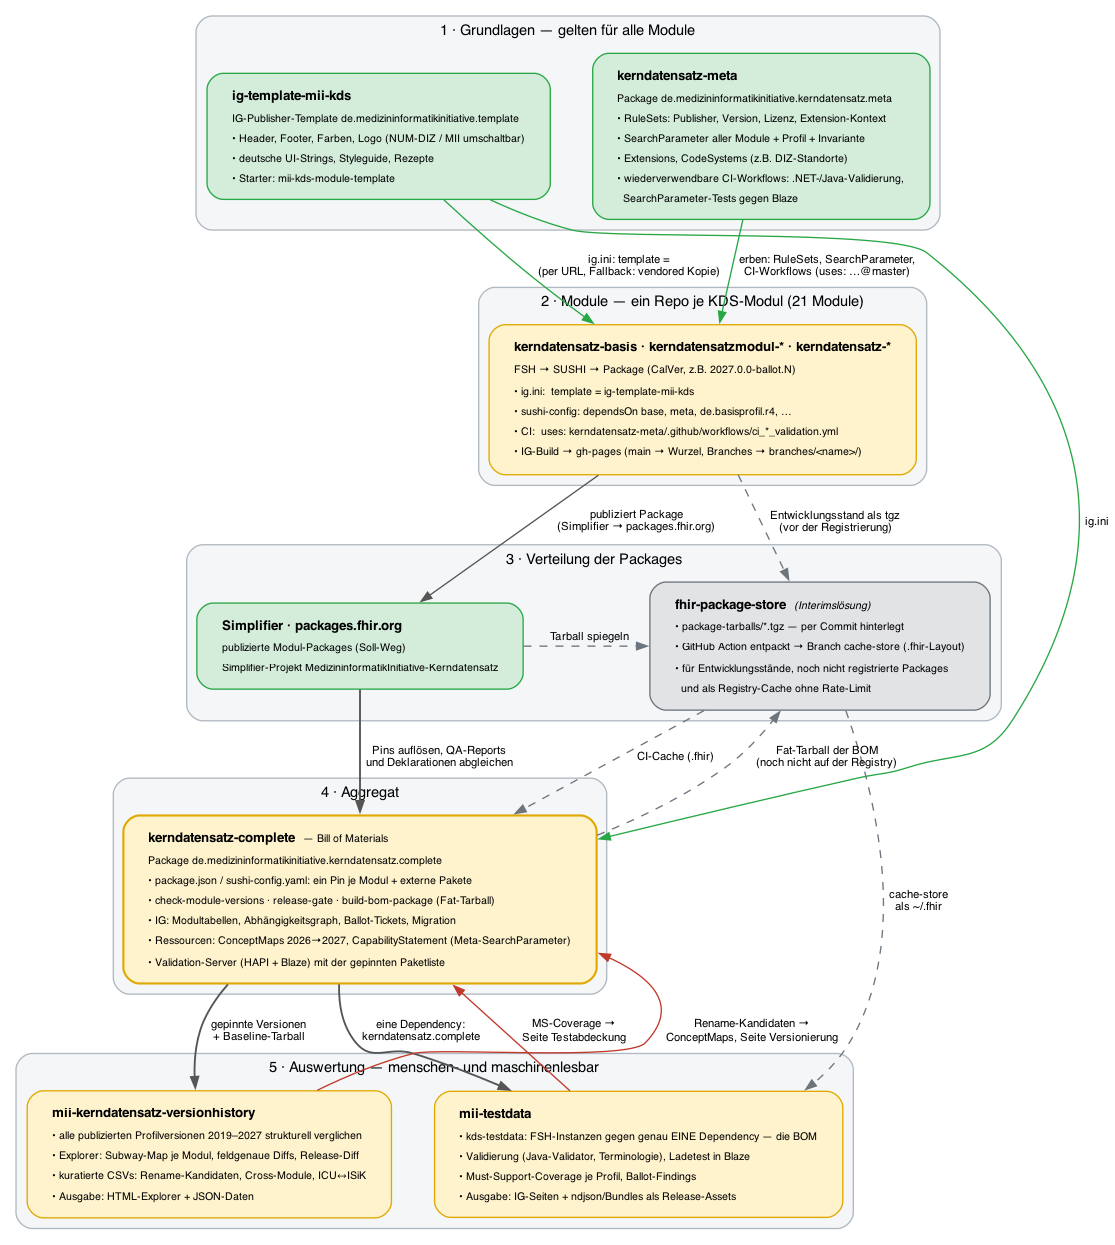
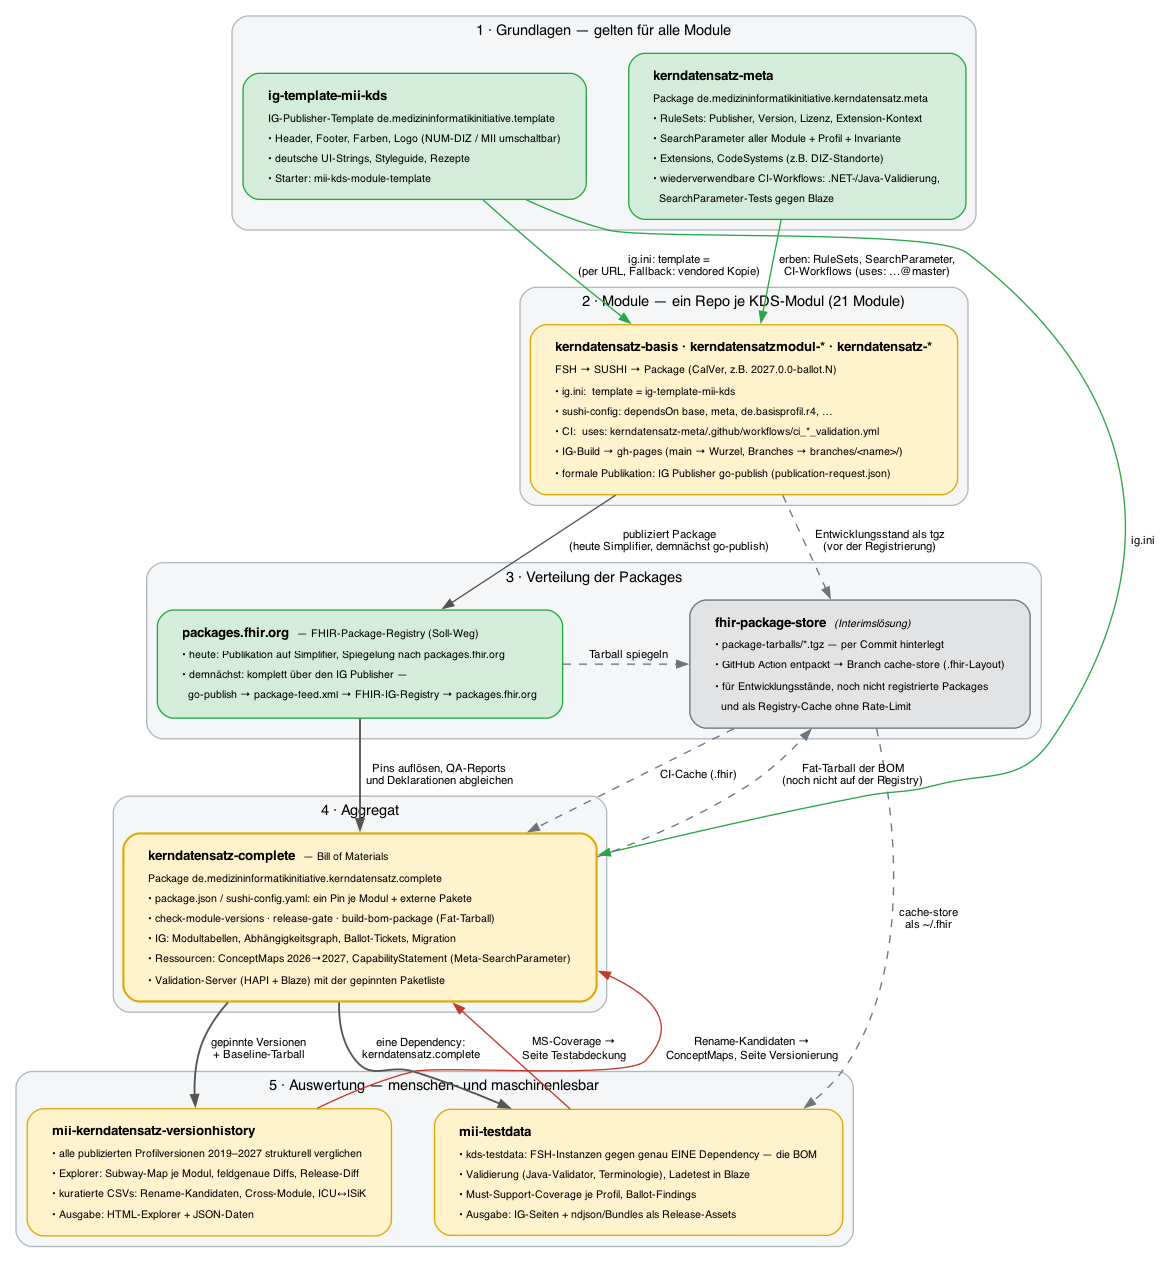
Entwicklungsstack: Publikation heute Simplifier, demnaechst komplett IG Publisher
Seite und Diagramm unterscheiden jetzt den heutigen Registry-Pfad (Package auf
Simplifier, Spiegelung nach packages.fhir.org) vom Zielweg ueber den IG Publisher
(go-publish mit publication-request.json, package-feed.xml, FHIR-IG-Registry).
Der publish-simplifier-Schritt ist als Uebergang beschrieben.

Beads: mii-kds-complete-t1u

Claude-Session: https://claude.ai/code/session_01Y83qjEzu1KHu5HzX6M5T6Z

diff --git a/input/pagecontent/entwicklungsstack.md b/input/pagecontent/entwicklungsstack.md
@@ -9,7 +9,7 @@ wo die Ergebnisse menschen- und maschinenlesbar ankommen.
 <img src="dev-stack.png" alt="Entwicklungsstack des MII Kerndatensatzes: Meta und IG-Template, Modul-Repositories, Verteilung über Registry und fhir-package-store, die Complete-BOM und die Auswertungen Testdaten und Version-History" style="max-width:100%"/>
 
 <small>Generiert aus <code>dev-stack.dot</code> via Graphviz. Grün = stabile
-Grundlage bzw. Soll-Weg, gelb = Ballot-Linie 2027, grau = Interimslösung. Graue
+Grundlage bzw. Soll-Weg (Registry), gelb = Ballot-Linie 2027, grau = Interimslösung. Graue
 gestrichelte Kanten = Interims-Pfade über den Package-Store, rote Kanten = Rückfluss
 der Auswertungen in diese BOM.</small>
 
@@ -66,7 +66,17 @@ Jedes der 21 Module lebt in einem eigenen Repository der
    Wurzel der GitHub Pages, jeder andere Branch unter `branches/<name>/` — während
    Ballotierung und Template-Migration tragen diese Branch-Builds den aktuellen Stand.
 4. **Release** als Git-Tag nach [CalVer](versionierung.html) (`2027.0.0-ballot.N`),
-   Package-Publikation auf Simplifier, GitHub-Release mit dem Tarball als Asset.
+   GitHub-Release mit dem Tarball als Asset. Die **formale Publikation** läuft über
+   den IG Publisher: `publication-request.json` beschreibt die Version, der
+   `go-publish`-Workflow baut sie reproduzierbar, validiert, legt die
+   Publikationsstruktur mit `package-list.json` und `package-feed.xml` auf
+   GitHub Pages ab und erzeugt den Patch für die FHIR-IG-Registry — jeder dieser
+   Schritte ist bewusst manuell freizugeben.
+5. **Package-Publikation**: heute noch auf **Simplifier** — der Workflow
+   `publish-simplifier` lädt exakt das Package des go-publish-Laufs hoch, damit
+   Registry und Publikation identisch sind. Demnächst entfällt dieser Schritt:
+   `packages.fhir.org` liest das Package direkt aus dem Feed der
+   IG-Publisher-Publikation.
 
 Welche Version je Modul gerade gilt, zeigt die [Gesamtübersicht](index.html#gesamtübersicht);
 wie weit die Module untereinander konsistent sind, der
@@ -74,11 +84,17 @@ wie weit die Module untereinander konsistent sind, der
 
 ### 3. Verteilung: Registry und fhir-package-store
 
-Der **Soll-Weg** ist die FHIR-Package-Registry: Ein Modul publiziert sein Package
-im Simplifier-Projekt
-[MedizininformatikInitiative-Kerndatensatz](https://simplifier.net/organization/koordinationsstellemii/~packages),
-von dort wird es nach `packages.fhir.org` gespiegelt, und jeder Konsument — Module,
-diese BOM, Standorte — löst es mit SUSHI oder Firely Terminal auf.
+Der **Soll-Weg** ist die FHIR-Package-Registry `packages.fhir.org`: Jeder
+Konsument — Module, diese BOM, Standorte — löst die Packages mit SUSHI oder Firely
+Terminal von dort auf. Wie ein Package dorthin kommt, ist gerade im Übergang:
+
+- **Heute** publiziert ein Modul sein Package im Simplifier-Projekt
+  [MedizininformatikInitiative-Kerndatensatz](https://simplifier.net/organization/koordinationsstellemii/~packages);
+  von dort wird es nach `packages.fhir.org` gespiegelt.
+- **Demnächst** läuft die Publikation komplett über den IG Publisher: Die
+  go-publish-Publikation auf GitHub Pages führt `package-feed.xml`, die
+  FHIR-IG-Registry kennt den Feed, und `packages.fhir.org` übernimmt das Package
+  daraus. Simplifier ist dann kein Publikationsschritt mehr.
 
 Daneben gibt es, **ausdrücklich als Interimslösung**, den
 [fhir-package-store](https://github.com/medizininformatik-initiative/fhir-package-store).
@@ -161,7 +177,7 @@ Jede Ebene des Stacks hat beide Ausgaben. Die Tabelle zeigt, wo was ankommt:
 |------------|--------------|---------------|
 | Modulübergreifende Vorgaben | [Meta-IG](https://medizininformatik-initiative.github.io/kerndatensatz-meta/), [Meta-Wiki](https://github.com/medizininformatik-initiative/kerndatensatz-meta/wiki) | Package `…kerndatensatz.meta`: RuleSets, SearchParameter, Extensions |
 | Darstellung der Guides | [Template-Demo](https://medizininformatik-initiative.github.io/ig-template-mii-kds/), Styleguide | Template-Package `de.medizininformatikinitiative.template` |
-| Ein Modul | Modul-IG auf GitHub Pages | Modul-Package auf Simplifier / `packages.fhir.org` |
+| Ein Modul | Modul-IG auf GitHub Pages (go-publish-Publikation) | Modul-Package auf `packages.fhir.org` (heute über Simplifier, demnächst aus dem Package-Feed der IG-Publikation) |
 | Der gesamte Kerndatensatz | dieser IG: [Gesamtübersicht](index.html#gesamtübersicht), Abhängigkeitsgraph, [Ballot](ballot.html) | `package.json` der BOM, Fat-Package, ImplementationGuide-Ressource |
 | Umstieg 2026 → 2027 | [Migration](migration.html), [Versionierung](versionierung.html) | ConceptMaps (`$translate`), Rename-CSVs der Version-History |
 | Suchanforderungen an Server | Meta-IG, [Artefakte](artifacts.html) | aggregiertes CapabilityStatement + SearchParameter |
@@ -172,6 +188,9 @@ Jede Ebene des Stacks hat beide Ausgaben. Die Tabelle zeigt, wo was ankommt:
 
 - Der **fhir-package-store** ist eine Übergangslösung und entfällt, sobald alle
   Packages — auch das Complete-Package — auf `packages.fhir.org` liegen.
+- Die **Package-Publikation** wechselt von Simplifier auf die IG-Publisher-Publikation
+  (`go-publish`, Package-Feed, FHIR-IG-Registry); bis dahin wird das go-publish-Package
+  zusätzlich nach Simplifier hochgeladen.
 - Das **IG-Template** wird per URL referenziert, bis das Template-Package
   registriert ist; dann steht in `ig.ini` ein Package-Name mit Version.
 - Die **Version-History** ist in Kuratierung; Rename- und Cross-Module-Kandidaten
